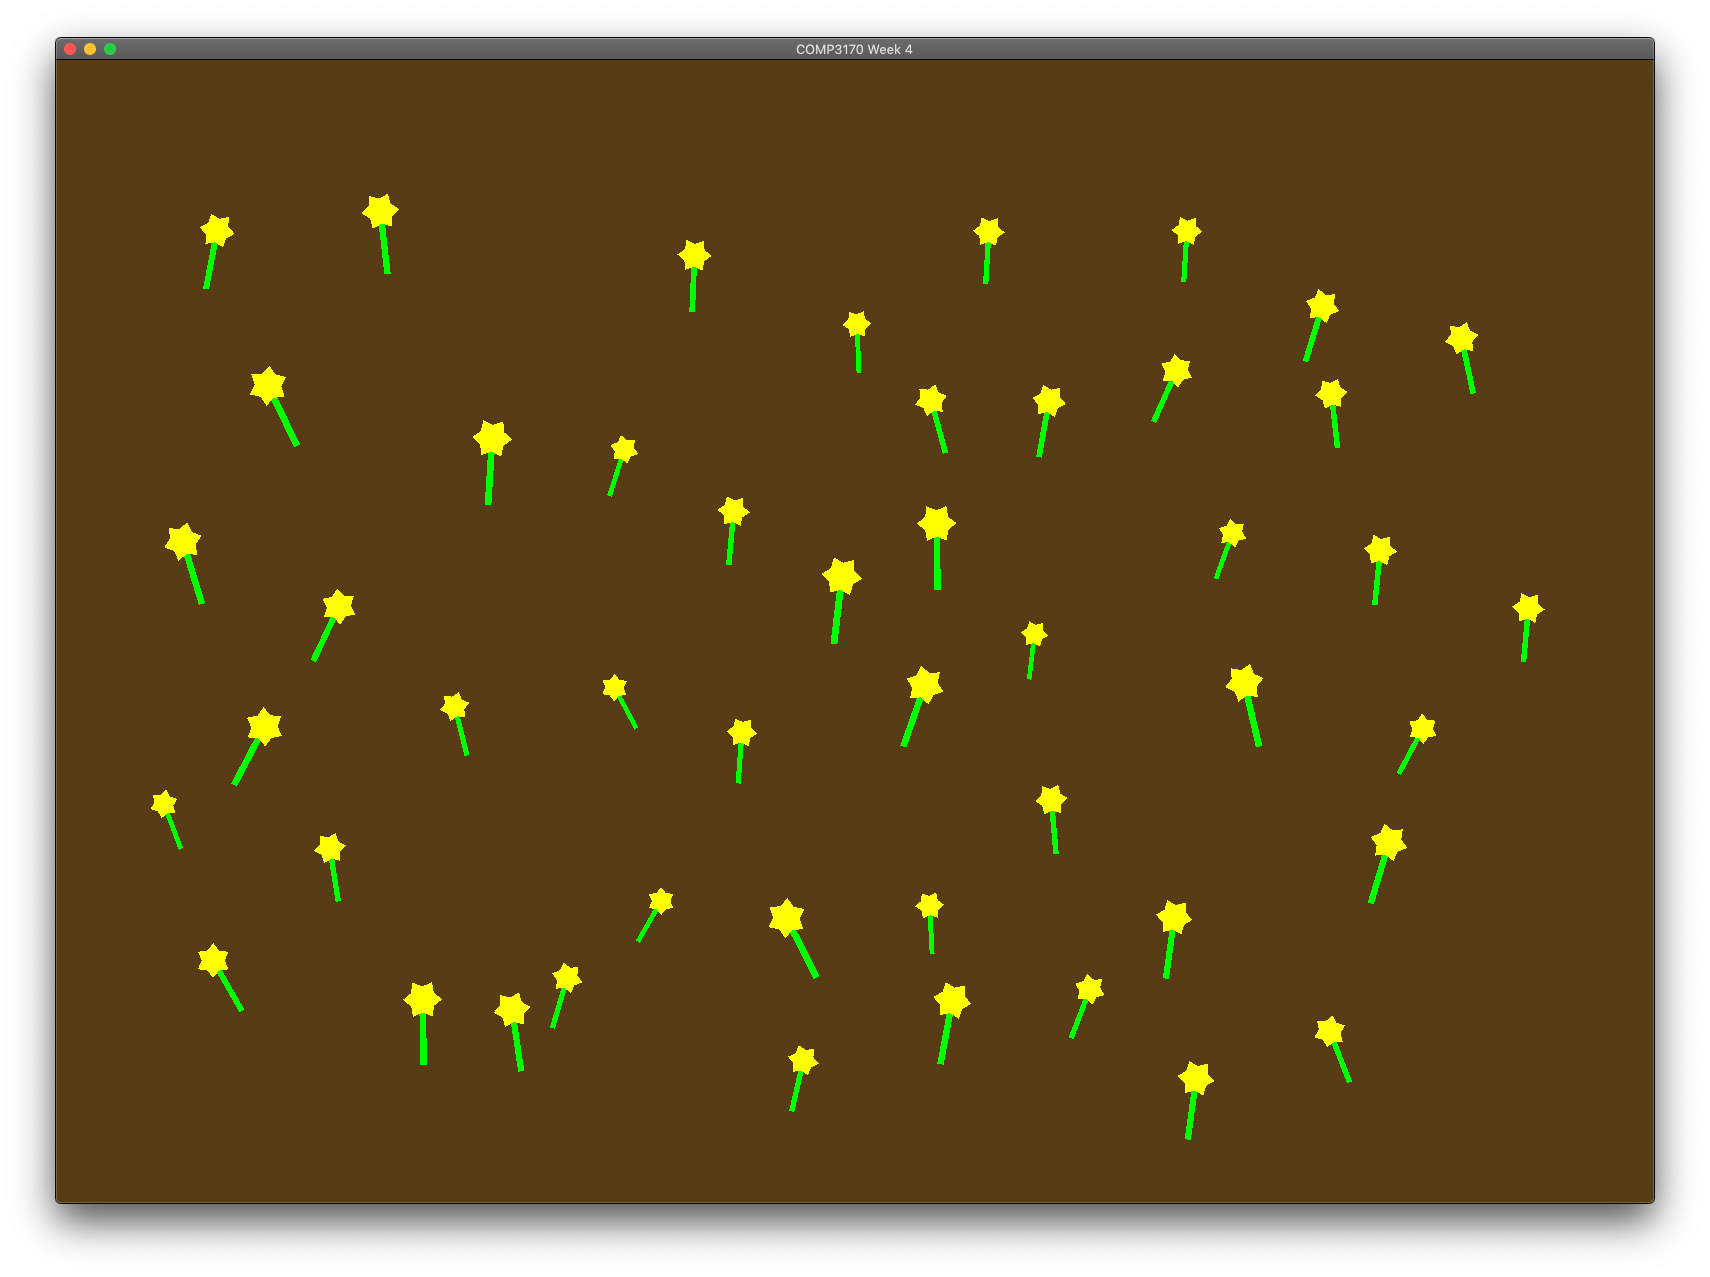
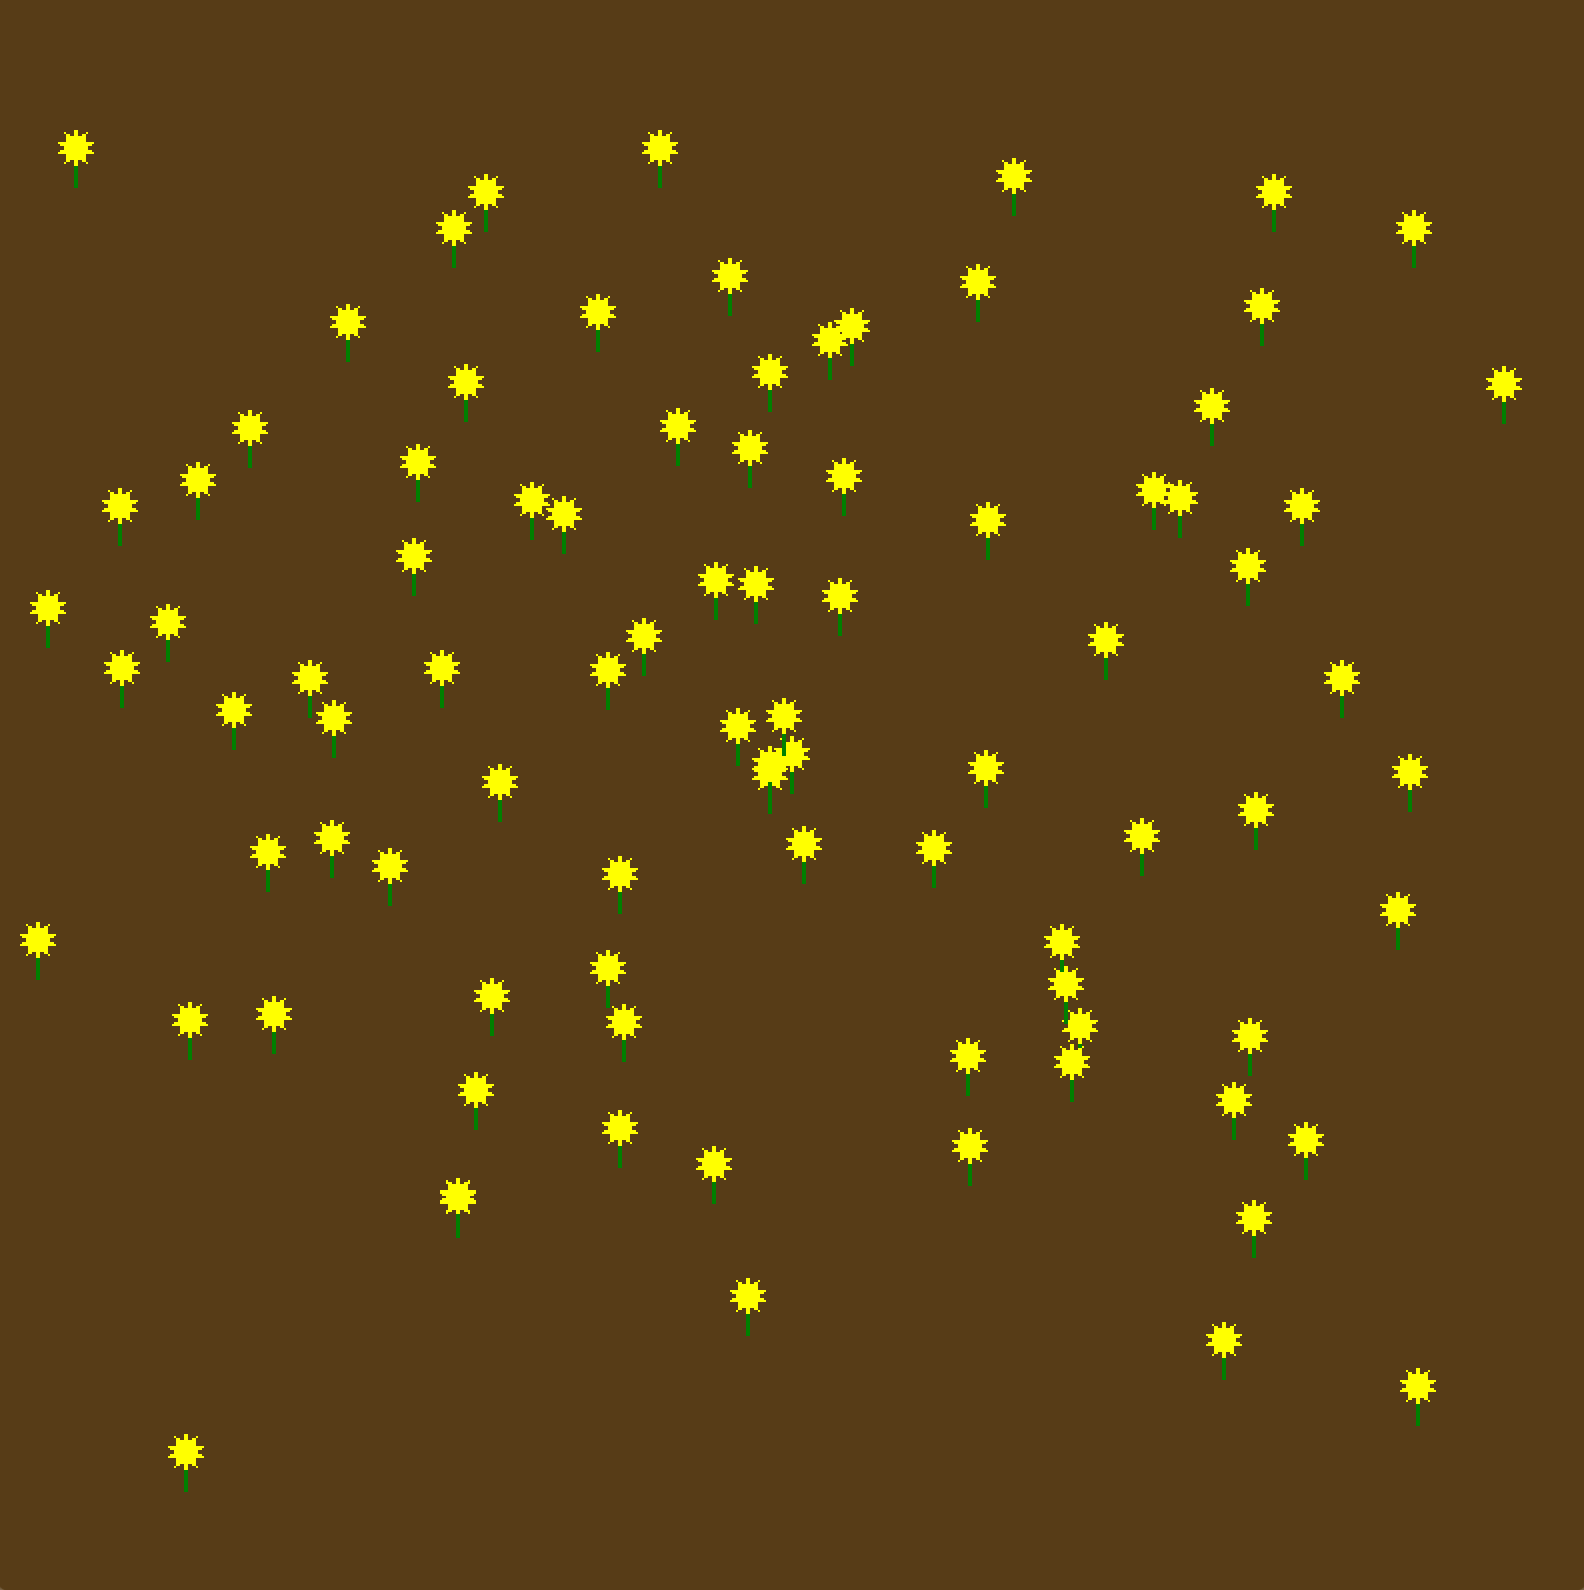
Document re-written for better scaffolding and more questions.

diff --git a/README.md b/README.md
@@ -1,58 +1,70 @@
-# COMP3170 - Week 4: Mesh Generation and Cameras
+# COMP3170 - Week 5: Mesh Generation and Cameras
 
 In this prac you are going to create a flower garden that looks like this:
 
-![An image of a flower garden created using OpenGL, with a brown background and flowers with green stems and yellow heads.](images/flowergarden.png)
-
-To achieve this, you'll need to draw triangles in 2D, apply matricies using JOML, change the view & projection matricies, and utilise mouse input.
+![TODO: image of completed flower garden](images/flowergarden.png)
+To achieve this, you'll need to:
+* Generate a flower head mesh.
+* Apply matricies using JOML.
+* Create a camera with view and projection matricies.
+* Utilise mouse input.
 
 Inside the template code for today, you'll see the following classes:
 * Week4.java: the base IWindowListener
-* Flower.java: code for drawing a flower
-* Transform.java: methods to create translation, rotation and scale matrices
+* Flower.java: code for drawing a flower stem.
+* FlowerHead.java: an empty sceneObject class.
+* Camera.java: Boilerplate code for a camera class.
 
-Hopefully by now the code should be familiar enough for you to find your own way around. The framework provided draws a single flower stem at (0,0). You task is to complete the parts labelled `TODO` in the code. 
+Hopefully by now the code should be familiar enough for you to find your own way around. The framework provided draws a single flower stem at (0,0). You task is to complete the parts labelled `TODO` in the code, which we will walk through below.
 
-## Draw a flower
-`Flower.calcModelMatrix():` Calculate the model matrix in TRS order to draw the flower at the given position, angle and scale.
+This task involves combining and testing your knowledge of the unit thus far weeks (including this week's content). If you are stuck, you may wish to revise previous week's work.
 
-`Flower():` Calculate the vertices for the head of a flower with the specified number of petals. Vertices should be laid out like this:
+## Creating a flower
+To create the flower, we want to generate the required vertices and link them up based on how many petals are being set (the `nPetals` variable in the code). The flower head should have both an inner and outer radius:
 
-![An image ofa flower head diagram, with an inner and outer radius.](images/flowerdiagram.png)
+![An image of a flower head diagram, with an inner and outer radius.](images/flowerdiagram.png)
 
-Draw the flower in your workbook, as a set of triangles. What is the simplest triangulation of the shape above?
+You've been provided a nearly empty `Flowerhead` class to get you started.
 
-`Flower.draw():` Add code to draw the head of the flower at the top of the stem. (Hint: add a translation to the world matrix to move the coordinate frame). Test that this works when the flower is moved, rotated and scaled.
- 
-## Scale the camera view
+The first thing you need to figure out is where should the flowerhead be positioned? What should it be childed to in the scenegraph? Draw this out and discuss with those around you.
 
-`vertex.glsl:` Add uniforms and code to implement view and projection matrices.
+We then need to do the hardwork of actually generating the flowerhead mesh based on the amount of petals. There's multiple ways you can approach this problem, each with their own trade-offs. Here's a few ideas to get you started. You could treat this as a single mesh, generating the vertices, transforming them appropraitely and then drawing them using either a suitable form of `glDrawArrays` or an index buffer. Alternatively, you could draw each petal individually, and rotate it around the flowerhead.
 
-In your workbook, draw the window showing the coordinates of each corner in:
-* viewport (i.e. pixel) coordinates
-* world coordiantes
-* view (i.e. camera certric) coordinates
-* NDC 
+Whatever method you choose, do some planning on how you'd achieve it. Creating additional classes is okay here, but remember to properly leverage the scene graph, matrix transformations, and any other tool from the lectures you can think of.
 
-What is the transformation from world to view coordinates (i.e. the view matrix)?
+Your instructor will direct you as to discussion.
 
-What is the transformation from view to NDC (i.e. the projection matrix)?
+## Add camera
+So now we've got a flower! But it's a bit big. Or rather, we're too far zoomed in. We need to create a camera that will allow us to see more of the flower field.
 
-`Week4.draw():` Add code to set the view and projection matrices, so you can see a larger field of view. [TODO: Should this be in scene?]
+A skeleton `Camera` class has been provided for you. Complete this class (and modify other classes) to:
 
-What happens when you resize the window? Why is this happening?
+* Add the camera to the scenegraph. What should it be a child of?
+* Set the `viewMatrix` of the camera. What should this be?
+* Set the `projectionMatrix` of the camera to use the `zoom` variable. What should this be?
+* Pass the view and projection matricies to the driver class. How should they get there, and what does the driver class do with it to pass it down the scene graph?
 
-Draw the correct mapping that takes the aspect ratio of the window into account.
+Once you've done this, you should be able to run your code and see your flower field zoomed in or out. However, when you resize your window, the flower will stretch.
 
-`Week4.resize():` Add code to change the projection matrix to match the aspect ratio of the window when it is resized.
+Create a resize function in the camera class that changes the projection matrix whenever the window is resized, taking the aspect ratio into account. Think about how you'd construct this.
 
-# Add interactivity
+![Image of flower in a bigger field](images/soloflower.png)
 
-`Week4.update():` Check whether the mouse has been clicked and create a new flower (adding it to the flowers list). Set the position of the new flower to the mouse position. To do this you will need to:
-* Get the mouse position from the input manager (in NDC)
-* Convert this to world coordinates by multiplying by the inverse camera matrix.
+## Click to spawn
+Woohoo, now we've got a great looking flower field! But...there's only one flower!
 
-Remember: the view & projection matrices convert from world to NDC, so the inverse will convert from NDC to world.
+We want to spawn a new flower at the mouse position whenever the user clicks on the screen. This takes a bit of doing, so let's break it down.
 
-`Flower.update():` Animate the flowers to sway in the wind, and make the heads rotate.
+In the driver class, there is an Update method awaiting input with `if (input.wasMouseClicked())`, grabbing the mouse position in screen coordinates and writing it to `position` with 	 `input.getCursorPos(position)`. This will give us the mouse's position in screen space, but we need to do a few more steps before we can use this. The things for you to figure out are:
 
+* How to get from screen space into NDC space. If you can't remember what these values are, Double-check your lecture notes and ask your instructor. What simple equation would allow us to convert a screen space value into NDC (hint: you should be using the `width` and `height` values).
+* How do we go from NDC to world space? What matrix that we already have could be used to do this? If you're stuck, try to remember how we get from world space to NDC in the first place.
+* Once you have your values, how do you translate a flower when it is spawned so it appears where you want?
+
+Tip: Try printing your x and y values as you go so you can troubleshoot what you are getting.
+
+## Camera zoom
+It's all well and good to have the camera set-up, but to really test things out we want to change the projection matrix as we are going. Add code to the camera class to change the zoom value when the user presses up or down on the keyboard (there's some commented out code to help you get started).
+
+## Animated flower
+As a final challenge, try to add some animation to your scene. Make the flower sway left and right, and the flowerhead spin. You can do something else if you'd like, the idea is to breathe some life into the scene.
